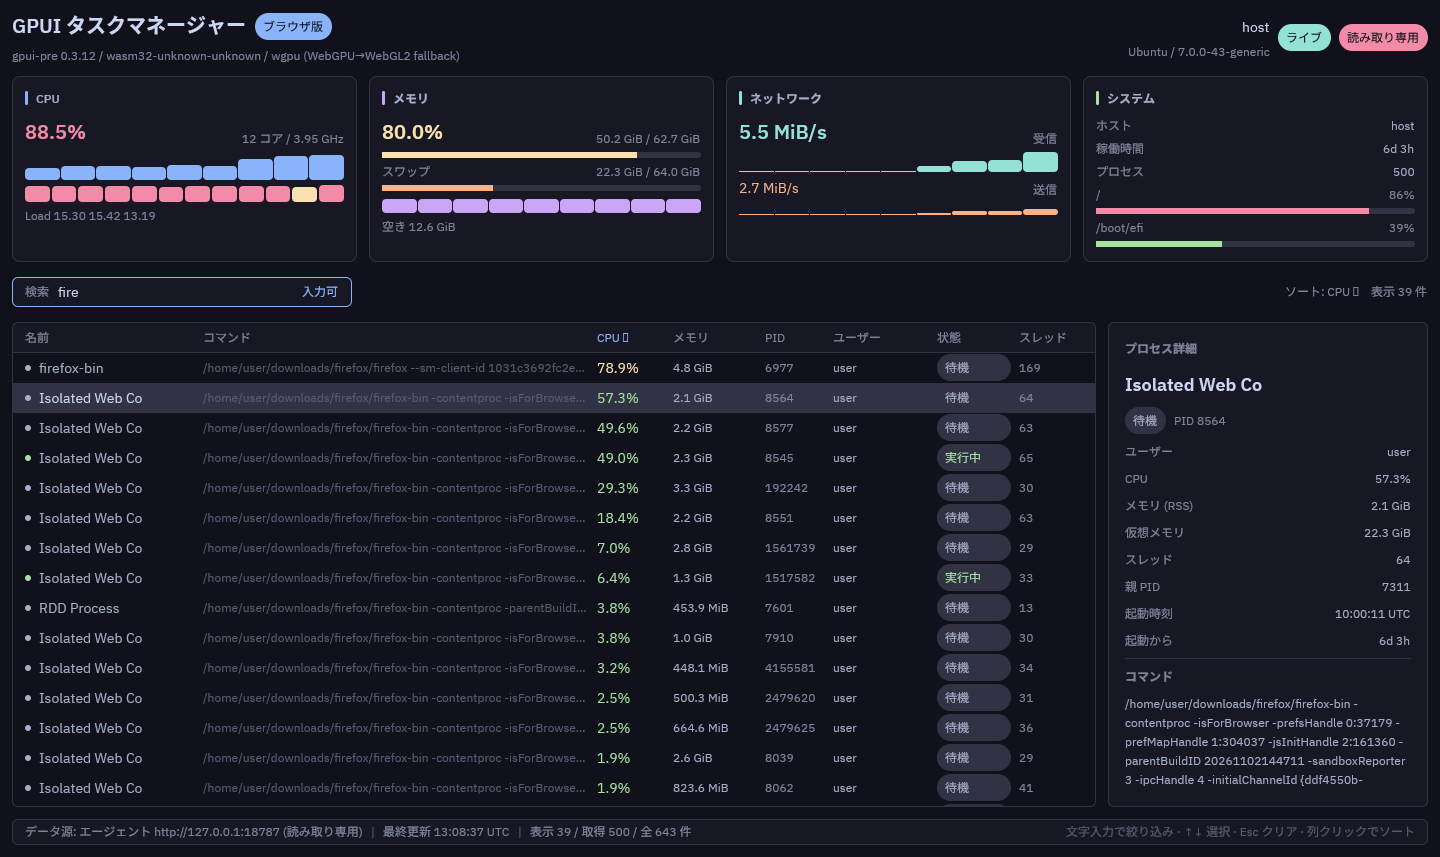
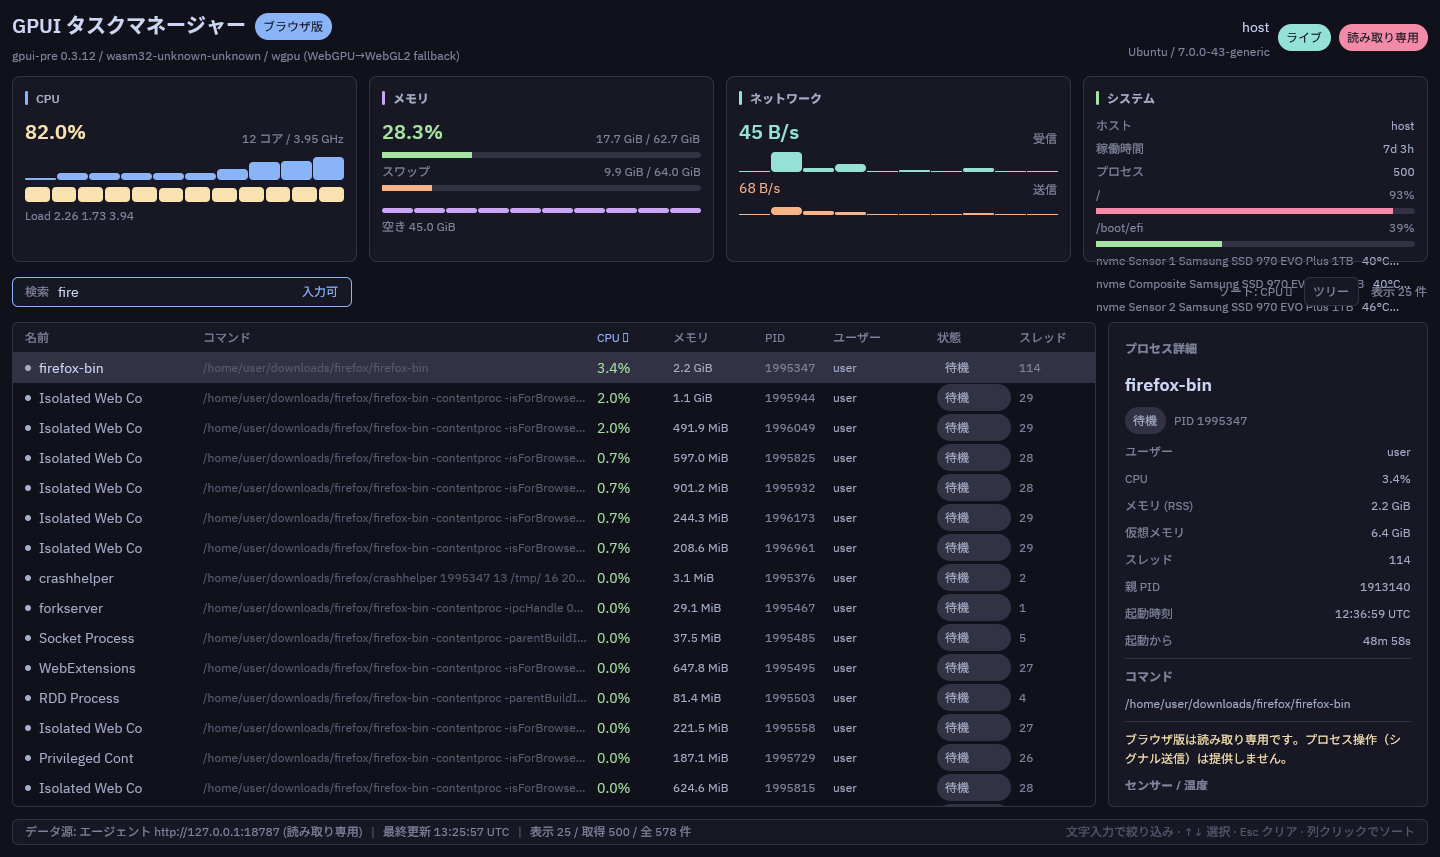
test(web): refresh live and agent-error CDP evidence

diff --git a/log.md b/log.md
@@ -311,3 +311,10 @@
 - `trunk build --release` 成功。wasm 7,635,554 B（gzip 3,042,856 B）/ JS 159,873 B / index.html 1,320 B を再計測。
 - CDP デモモード再検証: pass（failures 0、panic/JS 例外 0）。証跡（`web-shell-evidence-demo.json` とスクリーンショット 8 枚）を更新。
 - `README.md` / `DESIGN.md` / `web/README.md` / `notes/web-shell.md` / `notes/verification.md` の wasm サイズを現状値へ更新（旧値は履歴として保持）。
+
+## 2026-11-15（ブラウザ版ライブ / エラー時モードの CDP 再検証）
+
+- `cargo build -p tm-agent` で直前ビルドしたエージェントを `127.0.0.1:18787`（`--redact`）で起動し、`web/dist` を 8091 で配信、ヘッドレス Chrome 157 + CDP で再検証。
+- ライブ: **failures 0 / passed**（500 行、`fire` 絞り込みで 25 行、`live_error=0`、GET 14 回すべて `Authorization` 付き・URL にトークン無し、プリフライト 1 回）。エラー時（エージェント停止）: **failures 0 / passed**、`rows=0 / live_error=1` で UI に反映、panic 0。
+- 証跡（`web/verification/web-shell-evidence-live{,-error}.json`、`notes/assets/web-shell-*-live*.png`）を現行コードで更新。
+- 検証後の Chrome / HTTP サーバ / `tm-agent` は停止し、ポート 8091 / 9223 の解放を確認。
